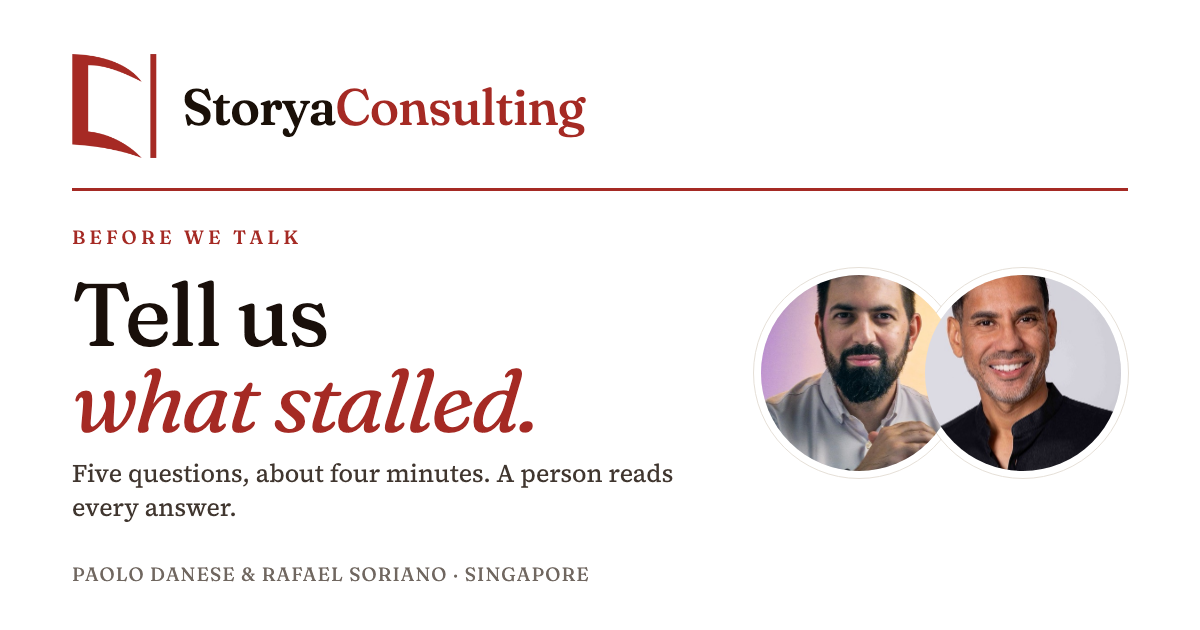
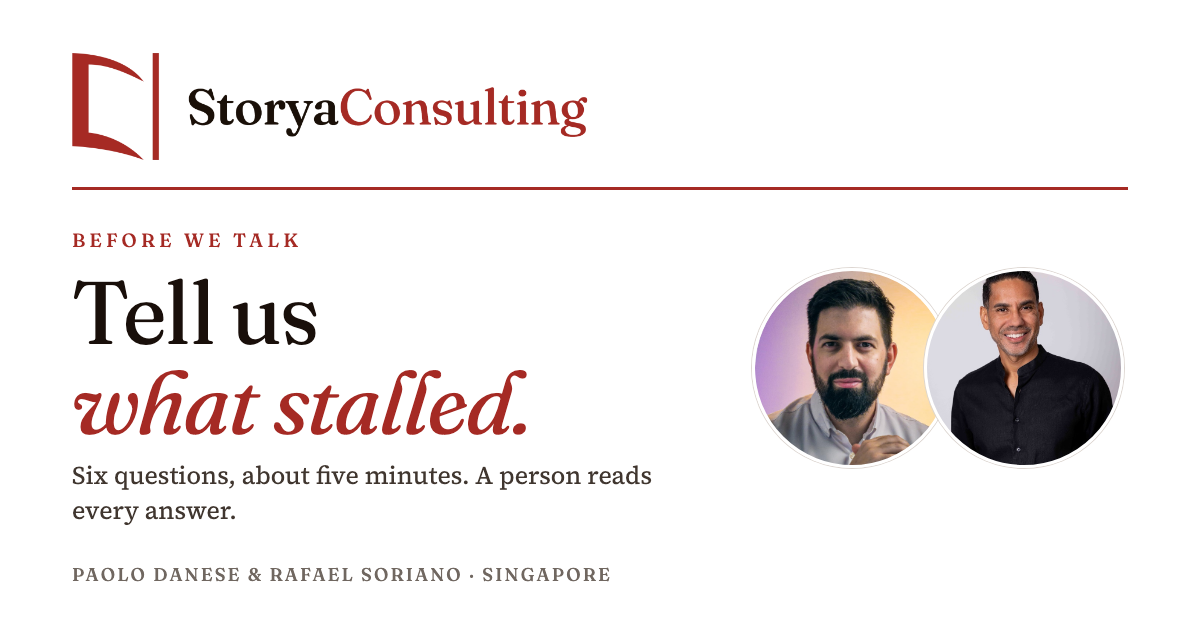
Start form: add open-ended question 6, add assessment line to hero, refresh share image

diff --git a/worker/handler.js b/worker/handler.js
@@ -76,6 +76,7 @@ export async function handleStart(request, env, { connect }) {
   const company = oneLine(text(form, 'company', 200));
   const role = oneLine(text(form, 'role', 200));
   const q4text = text(form, 'q4text', 2000);
+  const q6text = text(form, 'q6text', 2000);
   const dumb = text(form, 'dumb', 2000);
 
   const valid =
@@ -103,6 +104,7 @@ export async function handleStart(request, env, { connect }) {
     `4. Why it didn't stick: ${Q4[q4]}`,
     `   In their words: ${q4text || '(nothing added)'}`,
     `5. Who decides: ${Q5[q5]}`,
+    `6. In a perfect world, what they'd want AI to do: ${q6text || '(nothing added)'}`,
     '',
     `A dumb question for the series: ${dumb || '(none)'}`,
     '',
